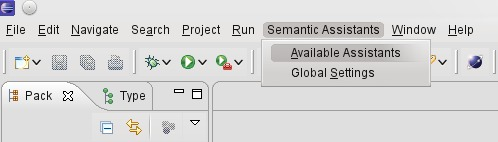
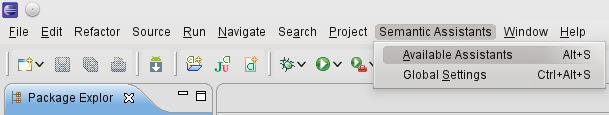
Updated the user guide with new screenshots. Added Update section. #158

diff --git a/Doc/semassist_clients.tex b/Doc/semassist_clients.tex
@@ -409,7 +409,7 @@ from the "Available Assistants" item and modify the connection settings to the
 Semantic Assistants server by selecting the second item.
 \begin{figure}[htb]
 \begin{center}
-  \includegraphics[width=0.8\textwidth]{pictures/eclipse_menu.jpg}
+  \includegraphics[width=1.0\textwidth]{pictures/eclipse_menu.jpg}
   \caption{Semantic Assistant Menu in Eclipse}
   \label{fig:eclipse_menu}
 \end{center}
@@ -418,7 +418,7 @@ Semantic Assistants server by selecting the second item.
 Selecting the "Available Assistants" item from Semantic Assistants menu will
 open a file selection dialog. The file selection dialog allows the user to
 select the desired files, folders and even complete projects to send to the
-server as inputs to an NLP service.
+server as inputs to an NLP service. For more convenience, you can type an arbitrary extension like ``java'' or ``xml'', in the ``File Format'' field to filter to file tree view. 
 
 \begin{figure}[htb]
 \begin{center}
@@ -431,13 +431,14 @@ server as inputs to an NLP service.
 This dialog also lets the user to select an NLP service from a dynamically
 generated list of services. This list is generated dynamically by selecting the
 available services based on the client and the language capabilities of the
-deployed NLP services. Note that the integration of a new service does not
+deployed NLP services. The server location where the service information are read from is presented just above the list as depicted in Fig \ref{fig:eclipse_services}. Note that the integration of a new service does not
 require any changes on the client side - any new NLP service created and
 deployed by a language engineer is dynamically discovered through its OWL
 metadata maintained by the architecture and so becomes immediately available to
 any connected client.
 
 \begin{figure}[htb]
+\label{fig:eclipse_services}
 \begin{center}
   \includegraphics[width=0.5\textwidth]{pictures/eclipse_services.jpg}
   \caption{A List of Available NLP Services}
@@ -507,30 +508,50 @@ Settings" item. By clicking on this menu item, a dialog as depicted in Figure \r
 
 \subsection{Installation}
 \label{subsec:eclipse_install}
-In order to use the Eclipse plug-in, do the following:
+You can install the Semantic Assistants plug-in via the Eclipse software installer. To do so, first you have to add the Semantic Assistants software repository to your Eclipse list of software sites. In addition to installing the plug-in, adding the repository lets the Eclipse update manager to check for plug-in updates once available. Please carefully follow the steps listed below to install the Eclipse plug-in and refer to section \ref{trouble:eclipse_install} for installation troubleshooting.
 
 \begin{enumerate}
-
-  \item Make sure that the client-side abstraction layer is already been built
-and packaged.
-
-  \item cd to the \url{Clients/EclipsePlugin} directory.
-
-  \item Type \texttt{ant}. The ant file will compile all the classes and package
-the plug-in JAR file in \url{EclipsePlugin/plugins} folder.
-
-  \item Browse to your Eclipse installation folder and paste the generated JAR
-file from previous step into the \url{plugins} folder.
-  
-  \item Start the Eclipse application. The Eclipse plug-in loader will
-automatically install the plug-in for you. If the plug-in is installed
+  \item Select Help $\rightarrow$ Install New Software to open the Eclipse software installer.
+  \item Press the ``Add'' button in the dialog, to add the Semantic Assistants repository.
+  \item In the new dialog depicted in Fig \ref{fig:eclipse_install}, type ``\texttt{Semantic Assistants}'' and\\ ``\texttt{http://sa-eclipse.semanticsoftware.info}'' in ``Name'' and ``Location'' fields, respectively, and press ``OK''.
+  \item The Semantic Assistants repository should now be added to your Eclipse list of software sites as seen in Fig \ref{fig:eclipse_install2}. From the loaded softwares, check the Eclipse plug-in and press ``Next''.
+  \item Simply, follow the installation steps and let the installer restart the Eclipse application.
+  \item The Eclipse plug-in loader will automatically load the plug-in for you. If the plug-in is installed
 successfully, you should be able to see the Semantic Assistants menu added to
 you toolbar.
-
-  \textbf{Note:} Remember the server must be running to be able to query or
-execute language services.
-
 \end{enumerate}
+
+\begin{figure}[htb]
+\begin{center}
+  \includegraphics[width=0.6\textwidth]{pictures/eclipse_install.jpg}
+  \caption{Adding Semantic Assistants Repository to Eclipse List of Software Sites}
+  \label{fig:eclipse_install}
+\end{center}
+\end{figure}
+
+\begin{figure}[htb]
+\begin{center}
+  \includegraphics[width=0.6\textwidth]{pictures/eclipse_install2.jpg}
+  \caption{Eclipse Software Installer Dialog}
+  \label{fig:eclipse_install2}
+\end{center}
+\end{figure}
+
+\subsection{Updating The Plug-in}
+\begin{enumerate}
+  \item Select Help $\rightarrow$ Check for Updates to open the Eclipse update manager.
+  \item If there are any updates available for the Semantic Assistants plug-in, it will appear the in the update manager dialog as shown in Fig \ref{fig:eclipse_update}.
+  \item Check the Semantic Assistants Eclipse plug-in from the list and press ``Next''.
+  \item Follow the wizard steps and let the update manager restart your Eclipse for the updates to take place.
+\end{enumerate}
+
+\begin{figure}[htb]
+\begin{center}
+  \includegraphics[width=1.0\textwidth]{pictures/eclipse_update.jpg}
+  \caption{Updatin the Plug-in via Eclipse Update Manager}
+  \label{fig:eclipse_update}
+\end{center}
+\end{figure}
 
 \subsection{Development Notes}
 \label{subsec:eclipse.development}

diff --git a/Doc/semassist_troubleshooting.tex b/Doc/semassist_troubleshooting.tex
@@ -62,5 +62,6 @@ editing the file \verb=/etc/security/limits=:
 
 \section{Installation}
 \subsection{Eclipse Plug-In}
+\label{trouble:eclipse_install}
 \paragraph{The Plug-in does not show up in Eclipse.} This problem happens when the plug-in could not successfully install itself on your Eclipse. The most common cause of this is when you have not enough permissions on your Eclipse installation folder. For Eclipse plug-in to install itself, it needs write permission to the \texttt{configurations} folder. Login as root or obtain the adequate permissions to write into the Eclipse installation folder and restart application.
 It is recommended to start Eclipse with \texttt{"-clean"} command line argument to clear any per-configuration cached data.
